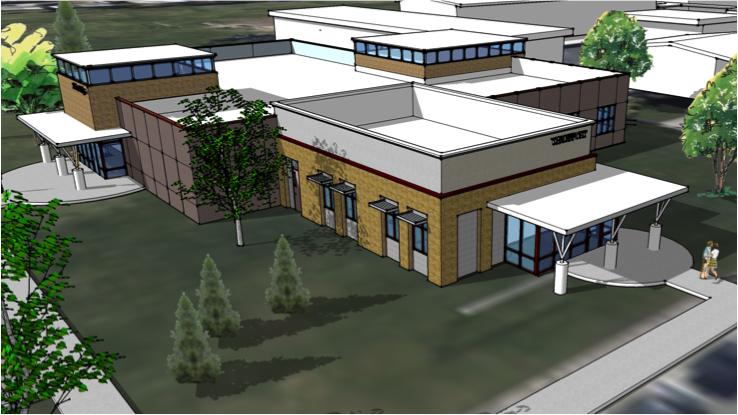
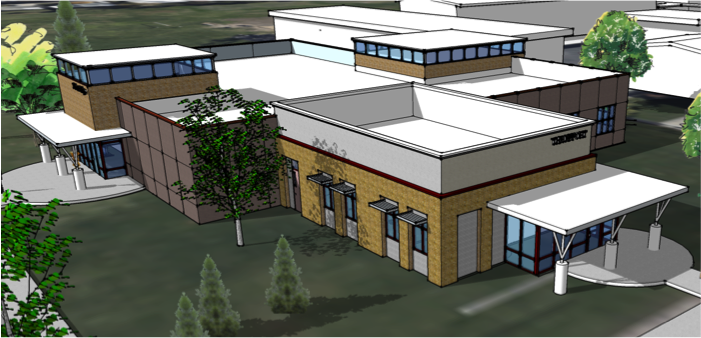
u7266

diff --git a/Unit_6/index.html b/Unit_6/index.html
@@ -66,7 +66,7 @@
 		<div class="wrapper clearfix">
 			<h1 class="graytitle">Stories of Hope</h1>
 			<section>
-				<img src="images/FH_Center.png">
+				<img class="hopepic" src="images/FH_Center.png">
 				<h3 class="ctrtxt">A Place for Hope: Folsom's Hope Community Center</h3>
 			</section>
 			<section class="backgroundbox_left">

diff --git a/Unit_6/css/style.css b/Unit_6/css/style.css
@@ -489,3 +489,8 @@ form {
 	font-size: .9em;
 	font-weight: 500;
 }
+
+.hopepic {
+	width: 40%;
+	border: 3px solid #BFB8B4;
+}
